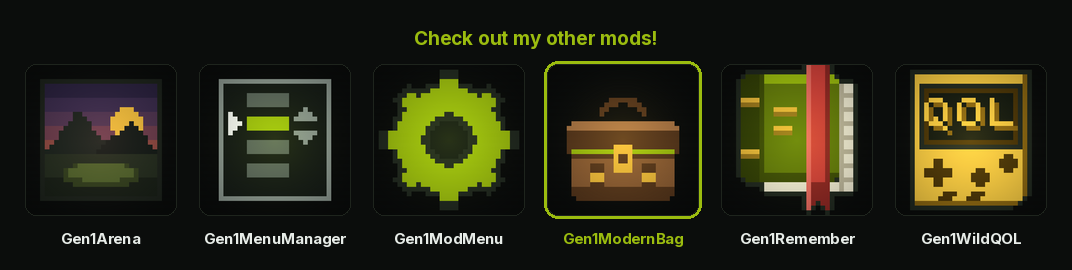
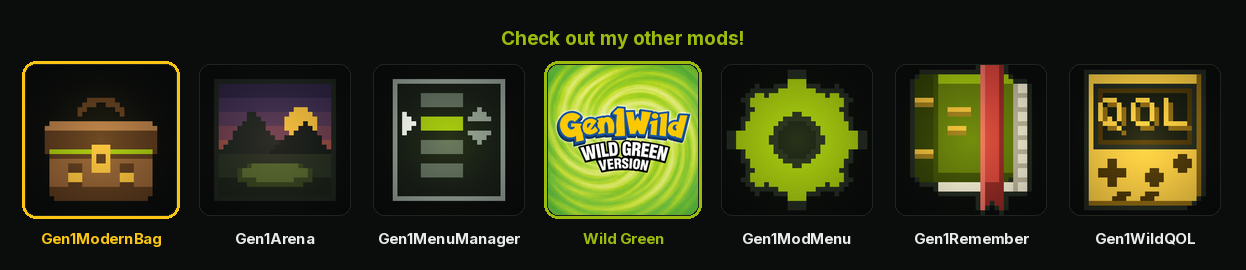
Lineup strips: seven tiles, this mod first, Wild Green in the middle
Every mod's "Check out my other mods!" strip now runs seven tiles in fixed
places: the mod whose page it is sits first, ringed and labelled in the
index's brand yellow; the Wild Green cart sits in the middle, ringed and
labelled in the Game Boy green; five other mods fill in around them, picked
by the same stable hash as before.

The cart tile is read from carts/Wild@wild_green, so the whole suite --
playable as its own version -- is on every mod page in the family. The full
lineup.png is unchanged.

Claude-Session: https://claude.ai/code/session_01Km6xf7fZ22KbVoN8ND9uiz

diff --git a/tools/make_lineup.py b/tools/make_lineup.py
@@ -9,14 +9,14 @@ the art the feed actually serves, at a size a reader can take in at once.
 Two shapes come out of this:
 
     site/banners/lineup.png           every mod, for this repo's own README
-    site/banners/lineup-<Mod>.png     one per mod: that mod ringed and
-                                      COMPANIONS others, under a
+    site/banners/lineup-<Mod>.png     one per mod: seven tiles, under a
                                       "Check out my other mods!" line
 
 The per-mod ones are what each mod repo carries at docs/lineup.png, so a
 reader landing on any one of them can see where the page they are on sits in
-the family.  They are a sample rather than the whole index because the whole
-index is what a reader skips: see sample() below.
+the family.  Seven tiles, in fixed places: the mod you are reading about
+first, ringed in yellow; the Wild Green cart in the middle, ringed in green;
+five other mods around them.  See sample() below.
 
     python3 tools/make_lineup.py
 
@@ -37,26 +37,30 @@ from PIL import Image, ImageDraw, ImageFont
 
 ROOT = pathlib.Path(__file__).resolve().parent.parent
 MODS = ROOT / "mods"
+CART = ROOT / "carts" / "Wild@wild_green"
 CACHE = ROOT / "tools" / ".cache"
 OUT = ROOT / "site" / "banners"
 
-# site/index.html's card colours, and the Game Boy green it uses for links.
+# site/index.html's card colours, the Game Boy green it uses for links, and
+# the brand yellow it marks a featured entry with.
 BG = (0x0b, 0x0d, 0x0c)
 PANEL = (0x16, 0x1c, 0x17)
 EDGE = (0x1e, 0x24, 0x1d)
 TEXT = (0xe7, 0xec, 0xe8)
 ACCENT = (0x9b, 0xbc, 0x0f)
+BRAND = (0xfa, 0xc6, 0x13)
 
 TILE = 150          # a thumbnail's drawn size
 GAP = 24            # between tiles
 PAD = 26            # around the strip
-RING = 3            # the ring around the mod being viewed
+RING = 3            # the ring around a marked tile
 LABEL = 15          # label type size
 LABEL_GAP = 14      # between a tile and its label
 HEAD = 19           # the "check out" line
 HEAD_GAP = 20       # between it and the tiles
 
-COMPANIONS = 5      # how many other mods share a mod's own strip
+COMPANIONS = 5      # other mods, either side of the cart
+CART_SLOT = 3       # the middle of seven
 
 CALL_TO_ACTION = "Check out my other mods!"
 
@@ -78,45 +82,62 @@ def gfont(family, weight, size):
     return ImageFont.truetype(str(path), size)
 
 
-def entries():
-    """Every mod in the feed that has an icon, in title order."""
+def tiles(folder):
+    """(title, thumbnail) for every entry in a folder that has an icon."""
     found = []
-    for folder in sorted(MODS.iterdir()):
-        meta, thumb = folder / "meta.json", folder / "thumbnail.png"
+    for entry in sorted(folder.iterdir()):
+        meta, thumb = entry / "meta.json", entry / "thumbnail.png"
         if meta.is_file() and thumb.is_file():
             found.append((json.loads(meta.read_text())["title"], thumb))
     return sorted(found)
 
 
-def sample(mods, title):
-    """That mod, and COMPANIONS others: a strip a reader takes in at once.
+def entries():
+    """Every mod in the feed that has an icon, in title order."""
+    return tiles(MODS)
+
+
+def cart():
+    """The Wild Green cart's tile, or None if it has no icon."""
+    meta, thumb = CART / "meta.json", CART / "thumbnail.png"
+    if meta.is_file() and thumb.is_file():
+        return (json.loads(meta.read_text())["title"], thumb)
+    return None
+
+
+def sample(mods, title, green):
+    """Seven tiles, in fixed places, for one mod's own strip.
 
     Every mod on every mod's page grew with the index and was read by nobody.
     A dozen icons over a dozen names is a wall, and the one you are already
-    looking at is lost in the middle of it; six is a glance, and the ring
-    still has something to point at.
+    looking at is lost in the middle of it.  Seven is a glance, and three of
+    the seven are saying something:
 
-    The pick is arbitrary but not fresh: each candidate is ordered by a hash
+        1st       the mod whose page this is, ringed in yellow
+        middle    the Wild Green cart, ringed in green -- the whole suite,
+                  playable as its own version, on every page in the family
+        the rest  five other mods, so there is somewhere else to go
+
+    The five are arbitrary but not fresh: each candidate is ordered by a hash
     of its name paired with the name of the mod whose strip this is, so every
     mod gets its own five, the same five on every machine, and a rebuild that
     changed nothing redraws the same file and commits nothing.  Adding a mod
     reshuffles all of them, which is the point -- a new one turns up on other
     mods' pages without anything being chosen by hand.
-
-    Whoever comes out of it, they are drawn in title order with the mod being
-    viewed in its own place among them, so the strip still reads as a shelf
-    rather than as a row with something bolted to one end.
     """
+    here = [m for m in mods if m[0] == title]
     others = [m for m in mods if m[0] != title]
-    if len(others) <= COMPANIONS:
-        return mods
 
     def draw(other):
         pair = f"{title}\x00{other[0]}".encode("utf-8")
         return hashlib.sha256(pair).hexdigest()
 
-    picked = sorted(others, key=draw)[:COMPANIONS]
-    return sorted(picked + [m for m in mods if m[0] == title])
+    picked = sorted(sorted(others, key=draw)[:COMPANIONS])
+
+    row = here + picked
+    if green:
+        row.insert(min(CART_SLOT, len(row)), green)
+    return row
 
 
 def rounded(img, radius):
@@ -128,8 +149,9 @@ def rounded(img, radius):
     return img
 
 
-def strip(mods, out, highlight=None, heading=None):
-    """Draw the strip, optionally ringing one mod and topped with a line."""
+def strip(mods, out, rings=None, heading=None):
+    """Draw the strip, ringing the marked tiles and topping it with a line."""
+    rings = rings or {}
     label_font = gfont("Inter", 700, LABEL)
     head_font = gfont("Inter", 700, HEAD)
 
@@ -146,25 +168,26 @@ def strip(mods, out, highlight=None, heading=None):
 
     x = PAD
     for title, thumb in mods:
-        here = title == highlight
+        ring = rings.get(title)
         tile = Image.open(thumb).convert("RGB").resize((TILE, TILE),
                                                        Image.LANCZOS)
         draw.rounded_rectangle((x - 1, top - 1, x + TILE, top + TILE), 11,
                                fill=PANEL, outline=EDGE)
         img.paste(rounded(tile, 10), (x, top), rounded(tile.copy(), 10))
-        if here:
+        if ring:
             # The ring sits outside the tile, in the gap between two of them.
             draw.rounded_rectangle(
                 (x - RING - 1, top - RING - 1, x + TILE + RING, top + TILE + RING),
-                11 + RING, outline=ACCENT, width=RING)
+                11 + RING, outline=ring, width=RING)
         draw.text((x + TILE / 2, top + TILE + LABEL_GAP), title,
-                  font=label_font, fill=ACCENT if here else TEXT, anchor="ma")
+                  font=label_font, fill=ring or TEXT, anchor="ma")
         x += TILE + GAP
 
     OUT.mkdir(parents=True, exist_ok=True)
     img.save(out)
+    marked = ", ".join(sorted(rings)) if rings else ""
     print(f"  {out.relative_to(ROOT)}  {width}x{height}"
-          + (f"  ({highlight} ringed)" if highlight else ""))
+          + (f"  ({marked} ringed)" if marked else ""))
 
 
 def main():
@@ -173,10 +196,17 @@ def main():
         print("no mods with a thumbnail", file=sys.stderr)
         return 1
 
+    green = cart()
+    if green is None:
+        print("no cart thumbnail; strips will run six wide", file=sys.stderr)
+
     strip(mods, OUT / "lineup.png")
     for title, _ in mods:
-        strip(sample(mods, title), OUT / f"lineup-{title}.png",
-              highlight=title, heading=CALL_TO_ACTION)
+        rings = {title: BRAND}
+        if green:
+            rings[green[0]] = ACCENT
+        strip(sample(mods, title, green), OUT / f"lineup-{title}.png",
+              rings=rings, heading=CALL_TO_ACTION)
     return 0
 
 
